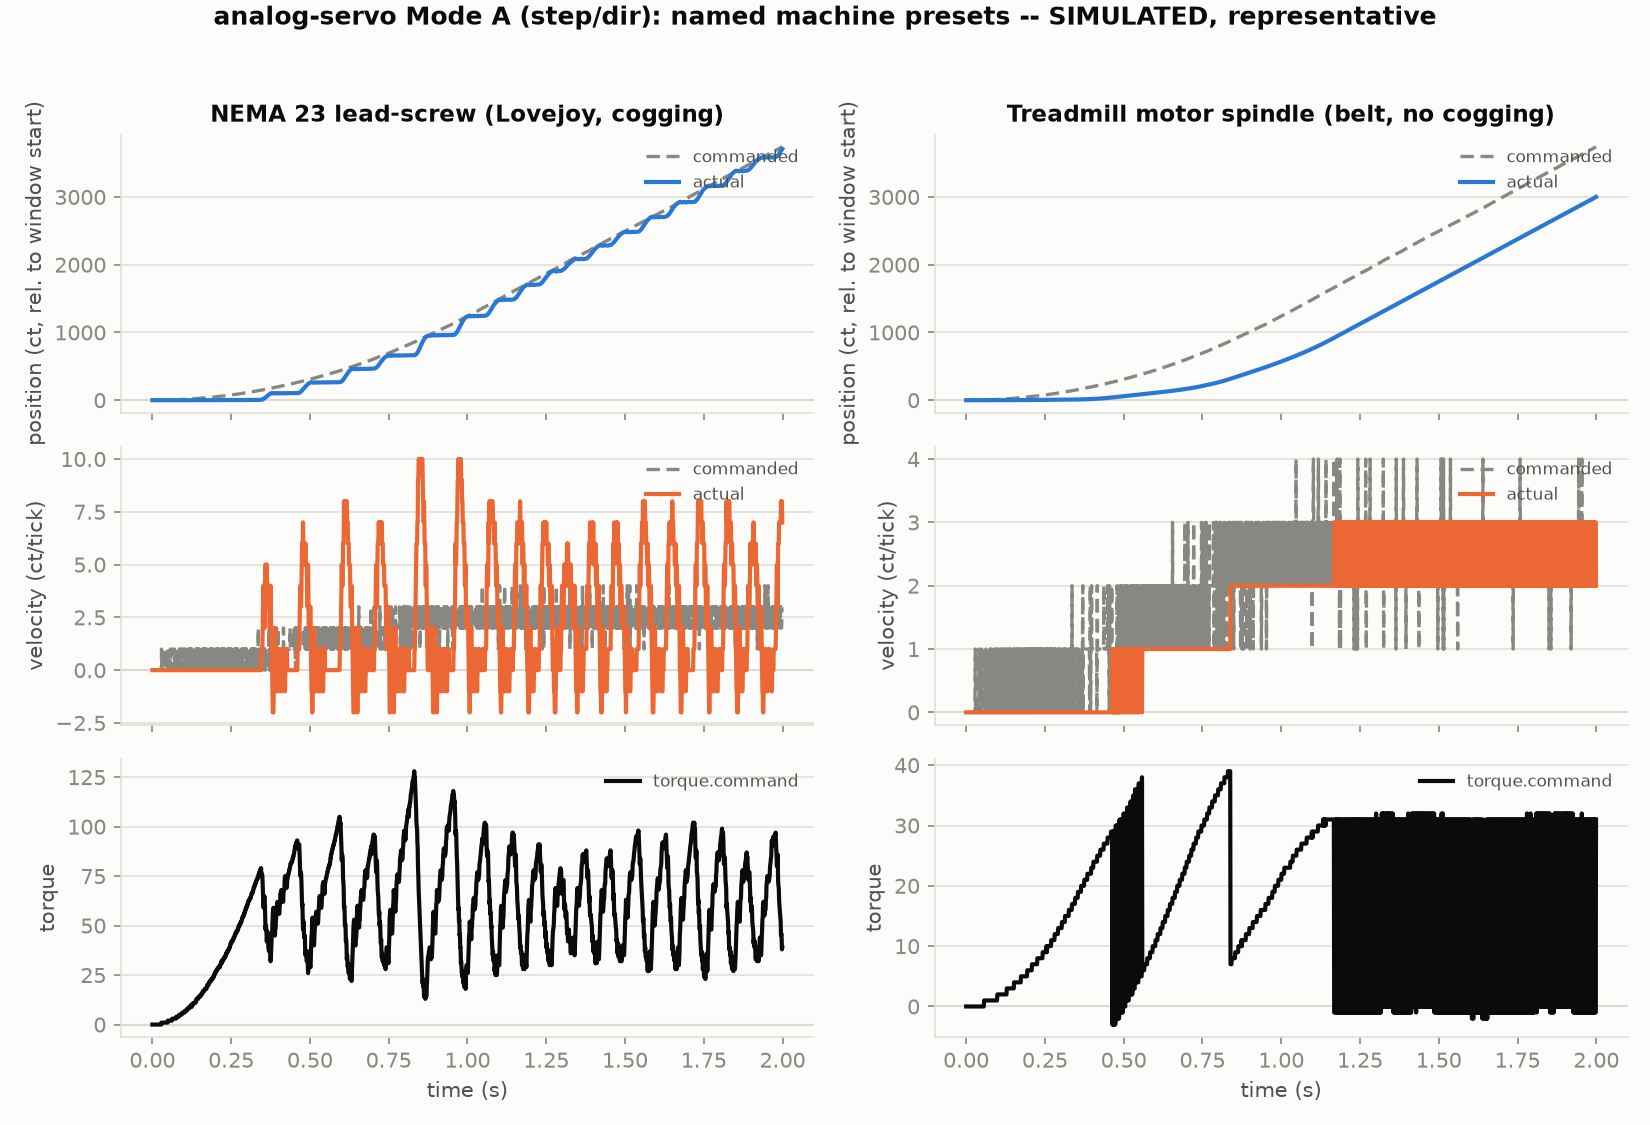
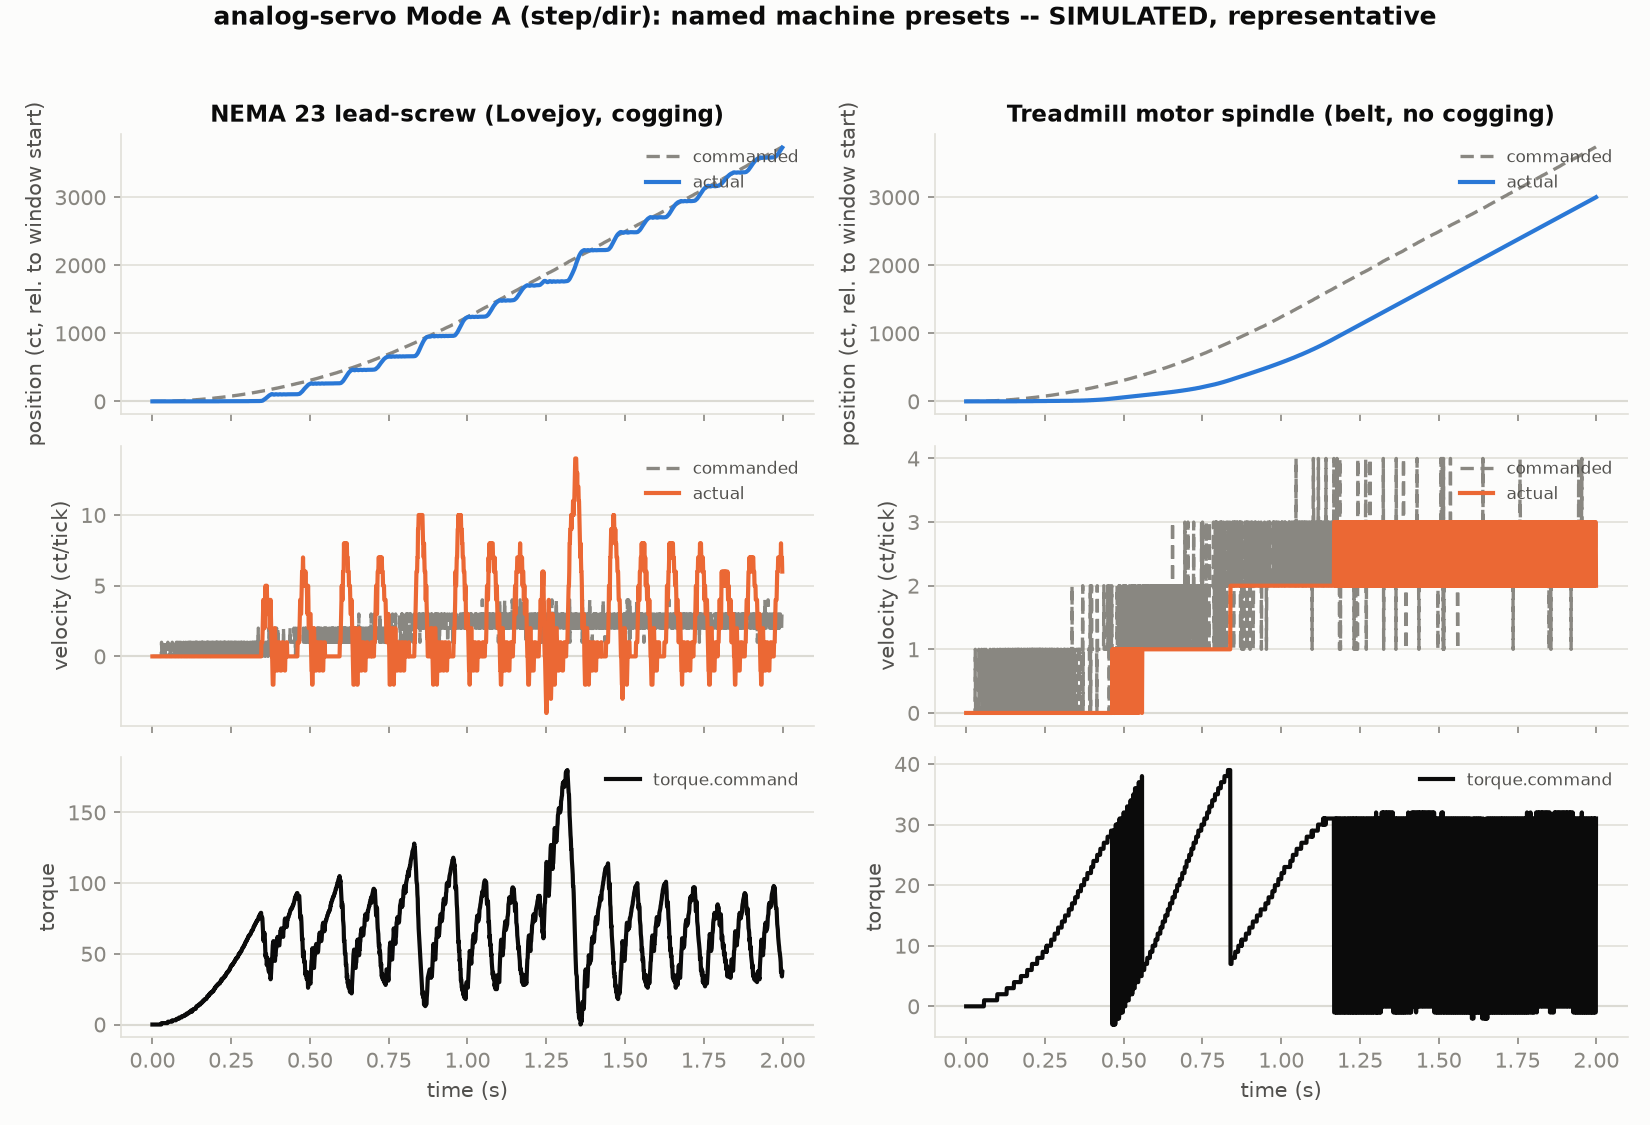
firmware: one-off localized friction "speed bump" primitive
A dusty/less-greased section of way is a one-off localized effect, not a
recurring one like cogging -- ToyPlant.h gained frictionBumpCenter/
HalfWidth/Extra (added to both stictionLimit and coulombLevel only while
position is within the window; works even starting from zero base
friction, so "no stiction anywhere except this one patch" is also
representable). Backward-compatible (half-width 0 disables it, confirmed
against all 248 previously-passing tests before and after).

Applied to kNema23LeadscrewLoad (center=1800, half-width=75, extra=60) --
visible as a single larger torque/velocity spike in
assets/stepdir-machine-presets-demo.png, distinct from the regular
stick-slip ripple either side of it. New comparison test confirms it's a
real, measurable local disturbance (with-bump vs. without-bump), not just
"still stable with a bump somewhere" -- the existing stability tests
already covered that. 248/248 native tests pass; the other 5 demo images
stayed byte-identical (confirmed).

Motor-side encoder feedback confirmed as the design choice for both named
presets (previously just a stated default).

diff --git a/firmware/test/support/ToyPlant.h b/firmware/test/support/ToyPlant.h
@@ -64,6 +64,17 @@ typedef struct {
   double coggingAmplitude;      /* 0 disables the position-dependent ripple entirely. */
   double coggingPeriodCounts;   /* spatial period of the ripple, in encoder counts. Ignored if
                                     coggingAmplitude is 0. */
+  double frictionBumpCenter;    /* position (counts) of a ONE-OFF localized patch of extra
+                                    friction -- a dusty/less-greased section of a way or screw,
+                                    not a recurring/periodic effect like cogging. */
+  double frictionBumpHalfWidth; /* counts -- half-width of the affected window. 0 disables the
+                                    bump entirely (frictionBumpCenter/Extra are then ignored). */
+  double frictionBumpExtra;     /* added to BOTH stictionLimit and coulombLevel while position is
+                                    within the window -- a dustier/drier patch resists both
+                                    starting and continuing to slide through it. Works even if
+                                    stictionLimit/coulombLevel are otherwise 0 (an axis with no
+                                    stiction anywhere except this one patch is a reasonable thing
+                                    to model too). */
 } ToyPlantParams;
 
 #define TOY_PLANT_PARAMS_IDEALIZED { .inertia = 16.0, .ampAlpha = 1.0, .friction = 0.0 }
@@ -94,19 +105,30 @@ static inline void ToyPlantMechanicalStep(ToyPlantState *s, const ToyPlantParams
         sin(2.0 * 3.14159265358979323846 * s->position / p->coggingPeriodCounts);
   }
 
-  if (p->stictionLimit > 0.0 && fabs(s->velocity) < TOY_PLANT_STICTION_VELOCITY_EPSILON &&
-      fabs(drivingForce) <= p->stictionLimit) {
+  double stictionLimit = p->stictionLimit;
+  double coulombLevel = p->coulombLevel;
+  if (p->frictionBumpHalfWidth > 0.0 &&
+      fabs(s->position - p->frictionBumpCenter) <= p->frictionBumpHalfWidth) {
+    /* A one-off localized patch (a dusty/less-greased section), not a
+     * recurring effect -- resists both starting and continuing to slide
+     * through it, on top of whatever friction already applies elsewhere. */
+    stictionLimit += p->frictionBumpExtra;
+    coulombLevel += p->frictionBumpExtra;
+  }
+
+  if (stictionLimit > 0.0 && fabs(s->velocity) < TOY_PLANT_STICTION_VELOCITY_EPSILON &&
+      fabs(drivingForce) <= stictionLimit) {
     s->velocity = 0.0;   /* stuck: driving force can't overcome static friction -- don't
                              integrate at all, rather than let it creep/chatter */
     return;
   }
 
   double frictionForce = p->friction * s->velocity;
-  if (p->coulombLevel > 0.0) {
+  if (coulombLevel > 0.0) {
     double slideDirection = (fabs(s->velocity) < TOY_PLANT_STICTION_VELOCITY_EPSILON)
         ? (drivingForce > 0.0 ? 1.0 : -1.0)      /* breaking away -- follow the driving force */
         : (s->velocity > 0.0 ? 1.0 : -1.0);       /* already sliding -- oppose actual motion */
-    frictionForce += p->coulombLevel * slideDirection;
+    frictionForce += coulombLevel * slideDirection;
   }
   s->velocity += (drivingForce - frictionForce) / p->inertia * dt;
   s->position += s->velocity * dt;

diff --git a/firmware/test/test_stepdir_control/test_stepdir_control.c b/firmware/test/test_stepdir_control/test_stepdir_control.c
@@ -640,6 +640,26 @@ static void test_prototype_nema23_leadscrew_preset_jittered_is_stable(void) {
   TEST_ASSERT_TRUE(r.pegTicks <= 20);
 }
 
+/* Confirms the friction bump actually does something -- without it,
+ * crossing the same stretch of travel produces visibly less following
+ * error than with it (131 -> 275 at cruise, calibrated; see
+ * MachinePresets.h). Not just "the preset is still stable with a bump
+ * somewhere in it" (the test above already covers that) -- this pins
+ * down that the bump is a real, measurable local disturbance, not a
+ * no-op. */
+static void test_prototype_nema23_friction_bump_increases_local_error(void) {
+  ToyPlantParams loadWithoutBump = kNema23LeadscrewLoad;
+  loadWithoutBump.frictionBumpHalfWidth = 0.0;   /* disables the bump, same base stiction/coulomb */
+
+  MachinePresetTrialResult withoutBump = RunMachinePresetTrial(
+      &kNema23LeadscrewMotor, &loadWithoutBump, &kNema23LeadscrewCoupling,
+      &kNema23LeadscrewGains, 2500.0, 1.0, 0.0, 1000, 1000);
+  MachinePresetTrialResult withBump = RunMachinePresetTrial(
+      &kNema23LeadscrewMotor, &kNema23LeadscrewLoad, &kNema23LeadscrewCoupling,
+      &kNema23LeadscrewGains, 2500.0, 1.0, 0.0, 1000, 1000);
+  TEST_ASSERT_TRUE(withBump.maxErrCruise > withoutBump.maxErrCruise);
+}
+
 static void test_prototype_treadmill_spindle_preset_clean_is_stable(void) {
   MachinePresetTrialResult r = RunMachinePresetTrial(
       &kTreadmillSpindleMotor, &kTreadmillSpindleLoad, &kTreadmillSpindleCoupling,
@@ -713,6 +733,7 @@ int main(void) {
   RUN_TEST(test_prototype_realistic_plant_smoothed_feedforward_beats_raw_feedforward_chatter);
   RUN_TEST(test_prototype_nema23_leadscrew_preset_clean_is_stable);
   RUN_TEST(test_prototype_nema23_leadscrew_preset_jittered_is_stable);
+  RUN_TEST(test_prototype_nema23_friction_bump_increases_local_error);
   RUN_TEST(test_prototype_treadmill_spindle_preset_clean_is_stable);
   RUN_TEST(test_prototype_treadmill_spindle_preset_jittered_is_stable);
   RUN_TEST(test_filter_shift_one_stays_bounded_under_jitter);

diff --git a/firmware/test/support/MachinePresets.h b/firmware/test/support/MachinePresets.h
@@ -48,6 +48,12 @@
  *     bandwidth (a well-chosen coupling should be nearly invisible to
  *     the control loop, not a source of trouble).
  *   - Gravity: none (horizontal axis).
+ *   - Friction bump: one localized patch of extra friction on the load
+ *     (a dusty/less-greased stretch of way), NOT a recurring effect like
+ *     cogging -- see kNema23LeadscrewLoad. Measured effect on this gain
+ *     set: following error at cruise roughly doubles while crossing it
+ *     (131 -> 275 counts) but stays well short of the stability bound
+ *     tested in test_stepdir_control.c, and never causes clamp-pegging.
  */
 static const ToyPlantParams kNema23LeadscrewMotor = {
   .inertia = 64.0, .ampAlpha = 0.6, .friction = 0.02,
@@ -55,6 +61,12 @@ static const ToyPlantParams kNema23LeadscrewMotor = {
 };
 static const ToyPlantParams kNema23LeadscrewLoad = {
   .inertia = 8.0, .friction = 0.01, .stictionLimit = 80.0, .coulombLevel = 50.0,
+  /* A one-off "speed bump": a localized dusty/less-greased section of way,
+     not a recurring effect like cogging. Position/width/extra-friction
+     are representative, not measured -- picked to be a clearly visible
+     but non-catastrophic local disturbance (see the calibration note on
+     kNema23LeadscrewGains below). */
+  .frictionBumpCenter = 1800.0, .frictionBumpHalfWidth = 75.0, .frictionBumpExtra = 60.0,
 };
 static const CouplingParams kNema23LeadscrewCoupling = {
   .springK = 3.16, .springD = 1.0, .backlashGap = 0.5,

diff --git a/AGENTS.md b/AGENTS.md
@@ -48,11 +48,12 @@ hardware paths and control experiments live on separate branches — see
   feedforward PROTOTYPE (not current production Mode A behavior -- see
   `test_stepdir_control.c`) against a zero-lag toy plant, a more
   realistic one (`ToyPlant.h`: inertia + amplifier bandwidth lag +
-  friction + stiction + cogging, with gains hand-tuned specifically for
-  it), and two named-machine presets built on `ToyPlant.h`'s two-mass
-  compliant-coupling model (`MachinePresets.h`: a NEMA 23 lead-screw
-  mill X-axis, a treadmill motor spindle -- representative ratios, not
-  measured), then reuses `plot_telemetry.py` unchanged on the result;
+  friction + stiction + cogging + a one-off localized friction "speed
+  bump", with gains hand-tuned specifically for it), and two named-
+  machine presets built on `ToyPlant.h`'s two-mass compliant-coupling
+  model (`MachinePresets.h`: a NEMA 23 lead-screw mill X-axis, a
+  treadmill motor spindle -- representative ratios, not measured), then
+  reuses `plot_telemetry.py` unchanged on the result;
   run with no arguments to regenerate all six `assets/stepdir-*.png` in
   place after a `Control.c` change).
 

diff --git a/README.md b/README.md
@@ -49,6 +49,11 @@ a rendering artifact. It still stays within this sim's bounded-error/no-
 clamp-pegging bar (see the PROTOTYPE tests), but it's a reminder that
 "stable by that bar" and "smooth" aren't the same thing -- exactly the kind
 of distinction a real bench rig would be needed to confirm either way.
+The NEMA 23 preset's load also carries a one-off "speed bump" -- a
+localized patch of extra friction (a dusty/less-greased section of way,
+not a recurring effect like cogging) -- visible as the single larger
+torque/velocity spike around t=1.3s in that panel, distinct from the
+regular stick-slip ripple either side of it.
 
 **Q: Is this going to produce better results than a Teknic Clearpath?**
 A: No, almost certainly not.
